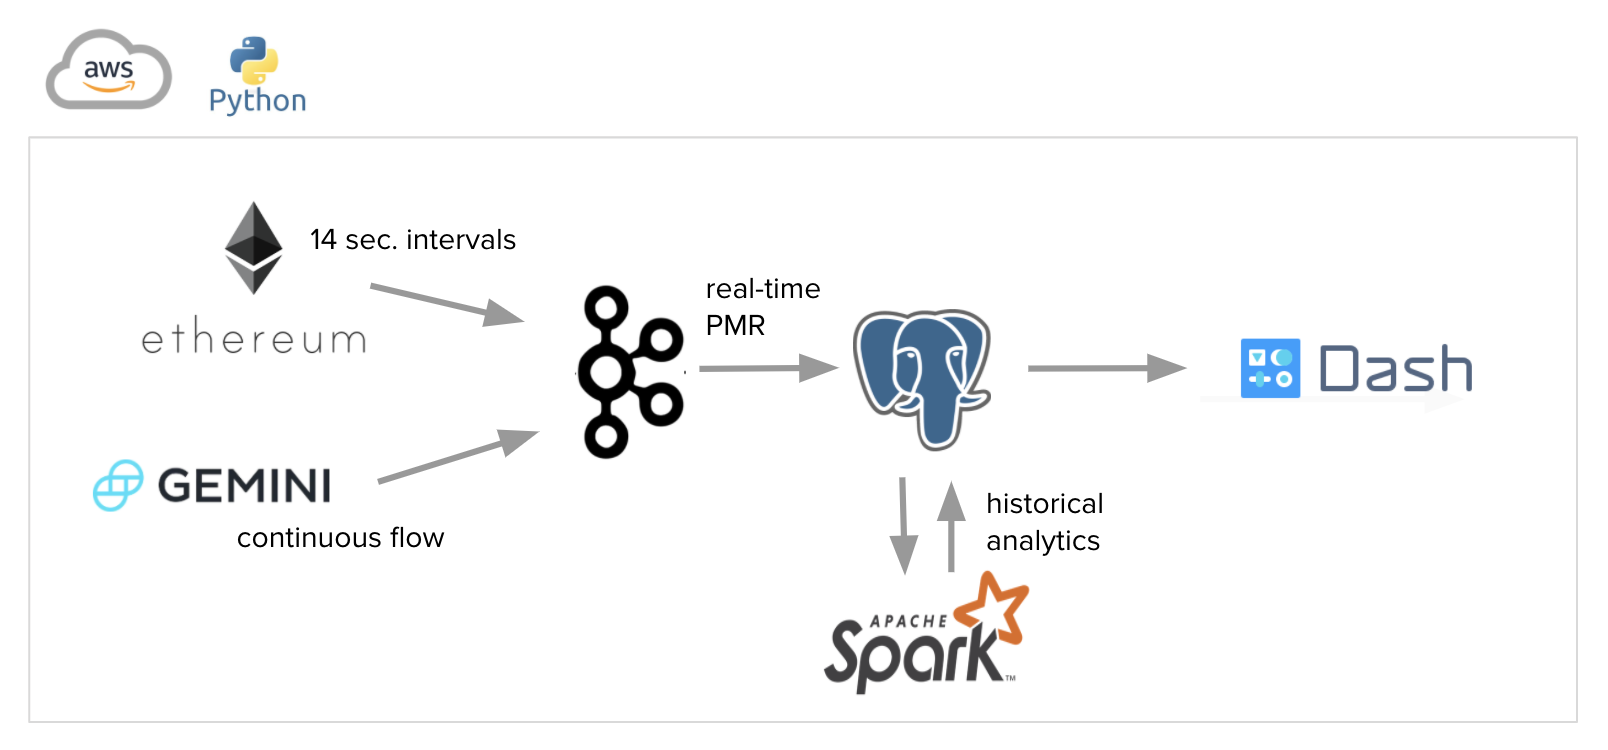
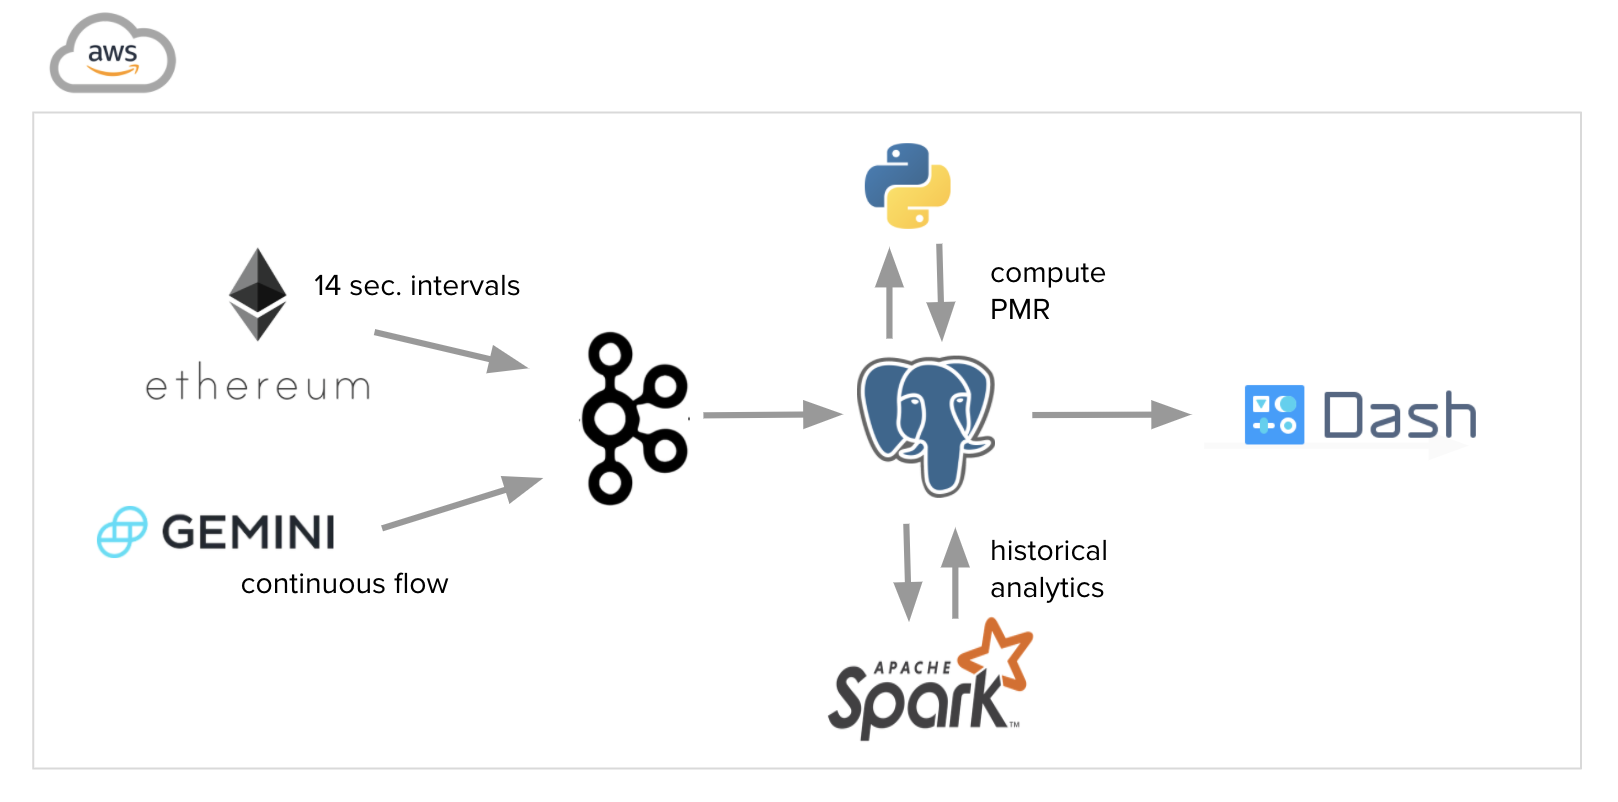
update readme

Changed region(s): [[0.0311, 0.1533, 0.9328, 0.92], [0.0311, 0.9507, 0.9639, 0.9813], [0.0311, 0.0, 0.1866, 0.1533]]

diff --git a/README.md b/README.md
@@ -4,9 +4,9 @@
 
 The goal of this project is to use Ethereum blockchain data to measure real-time changes in the intrinsic value of network, which can be used to predict Ether prices. The intrinsic value is proxied by computing a Price-to-Metcalfe Ratio (PMR). The relative change in PMR can potentially be used as a leading indicator for cryptocurrency investing and risk management.
 
-#### Metcalfe's Law
-
 #### Price-to-Metcalf Ratio
+
+![Preview](images/pmr.png)
 
 ## Data
 
@@ -21,36 +21,26 @@ Real-time exchange data was is streamed from the IEX Cloud API for market prices
 ![Preview](images/pipeline.png)
 
 
-### Setup
+### Blockchain data extraction
 
+Data from the Ethereum Node is extracted into three separate parts: (1) blocks, (2) transactions, and (3) token transfers.
 
-### Ingestion
+Extraction is exectued by running `filename1.py`, `filename2.py`, and `filename3.py` on the EC2 instance running the Ethereum Node.
 
+### Producers
+
+Four producers are used for each stream of data and executed by running `file.py`, `file.py`, `file.py`, and `file.py`. Each producer reads from the Ethereum Node EC2 and loads JSON data into its own topic.
+
+### Consumers
+
+Consumers pull from each Kafka topic and insert the data into a Postgres database. Kafka consumers are executed by running `file.py`, `file.py`, `file.py`, and `file.py`.
 
 ### Metric
 
-
-### Historical Analytics
-
-
+The Price-to-Metcalfe Ratio is computed by running `file.py`.
 
 ## Frontend
 
+The frontend is a Dash app that continuously pulls data from the Postgres database.
+
 ![Preview](images/frontend.png)
-
-## Repo directory structure
-The top-level directory structure look like the following:
-
-    ├── README.md
-    ├── run.sh
-    ├── app
-         └── app.py
-    ├── src
-        └── dags
-            └── dags.py
-        └── spark
-            └──  spark.py
-        └── database
-                ├── db.py
-                ├── config.py
-        └── main.py
